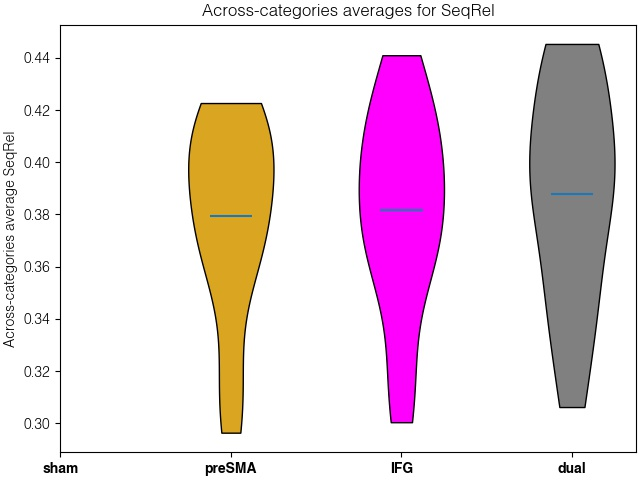
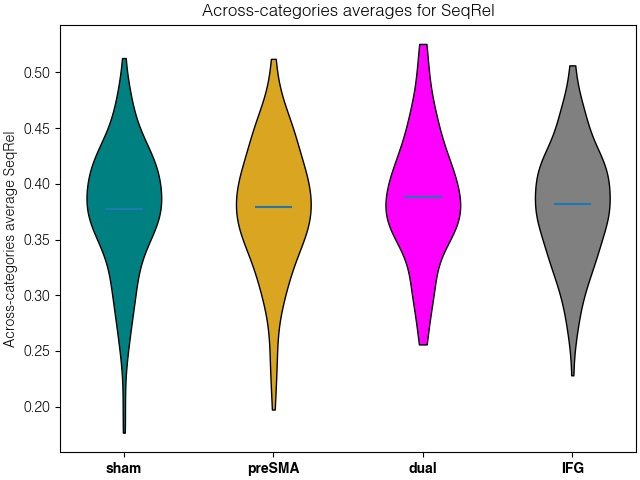
updated plots

diff --git a/analysis.py b/analysis.py
@@ -56,6 +56,8 @@ for row in range(total_rows):
     sub = int(full_dataset['participant'][row])
     task = full_dataset['task'][row]
     cond = full_dataset['cond'][row]
+    if cond == 'NA':
+        import pdb; pdb.set_trace()
     cat = full_dataset['item'][row]
     rt = float(full_dataset['rt'][row])
     word = full_dataset['response'][row].strip()
@@ -110,7 +112,7 @@ for metric, results in [('CuRel', curels), ('SeqRel', seqrels), ('Switches', swi
     fig, ax = pyplot.subplots(constrained_layout=True)
     title = 'Across-categories averages for {}'.format(metric)
     xs = list(results.keys())
-    ys = [[numpy.nanmean(v) for v in results[k].values()] for k in xs]
+    ys = [[val for v in results[k].values() for val in v] for k in xs]
     parts = ax.violinplot(ys, positions=range(len(ys)), showmeans=True, showextrema=False,)
     ax.set_xticks(range(len(xs)))
     ax.set_xticklabels(xs, fontweight='bold')
